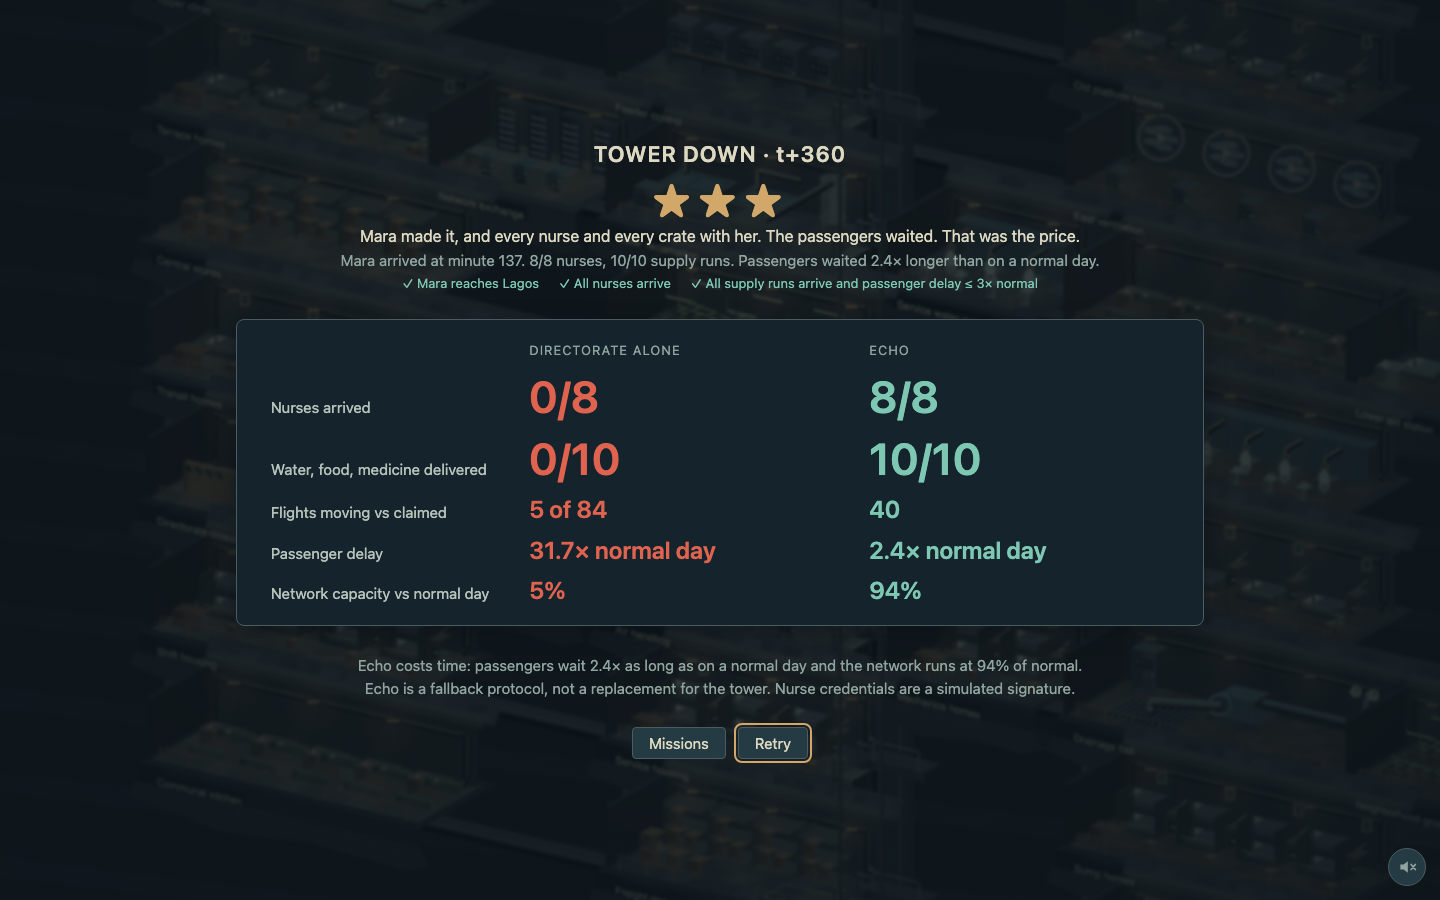
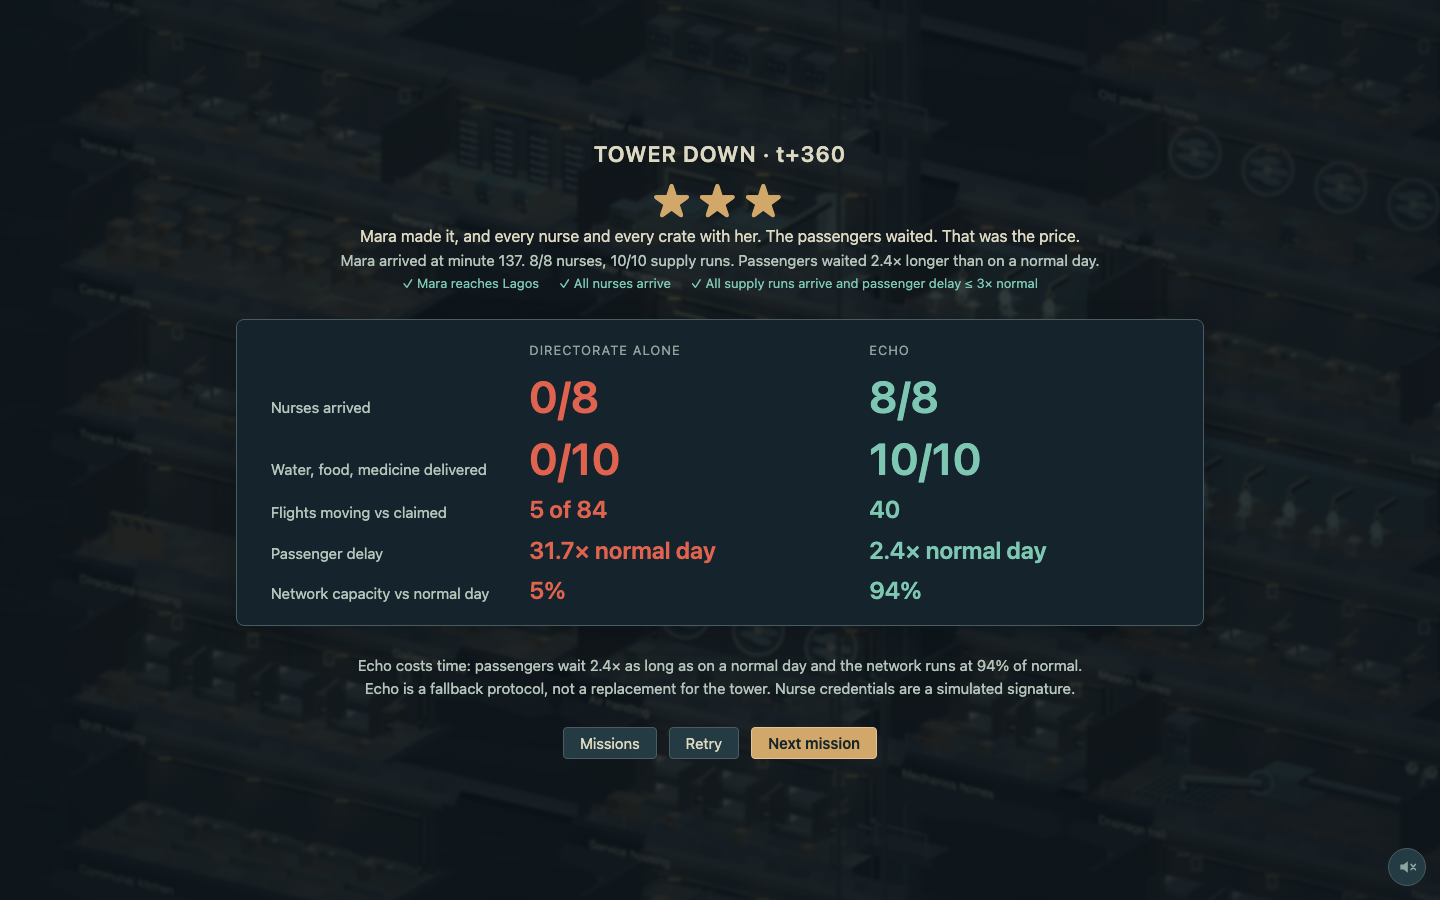
Backdrop text contrast to WCAG AA
Text that sits directly on the live Strata backdrop (kickers, title footer, debrief lines,
end-card note) uses text2 instead of muted/dim, and the canvas is a touch darker.
Worst case on a still frame and three drifting frames: every element passes AA (>=4.5, large >=3).

Changed region(s): [[0.25, 0.7156, 0.75, 0.8711], [0.25, 0.28, 0.75, 0.3111]]

diff --git a/hollow-world/src/echo-view/game/game.css b/hollow-world/src/echo-view/game/game.css
@@ -11,13 +11,13 @@ html, body, #root { margin: 0; height: 100%; background: var(--bg); color: var(-
 .g-btn:focus-visible, .g-card:focus-visible, .g-skip:focus-visible { outline: 2px solid var(--amber); outline-offset: 2px; }
 .g-row { display: flex; flex-wrap: wrap; gap: 12px; align-items: center; }
 .g-muted { color: var(--muted); }
-.g-kicker { font-family: var(--mono); color: var(--muted); font-size: 12px; letter-spacing: .16em; text-transform: uppercase; }
+.g-kicker { font-family: var(--mono); color: var(--text2); font-size: 12px; letter-spacing: .16em; text-transform: uppercase; }
 .g-stars { color: var(--amber); letter-spacing: .12em; }
 .g-stars .off { color: var(--line2); }
 
 /* the Strata scene behind the story screens: dimmed and softened so panels and text stay readable */
 .g-backdrop { position: fixed; inset: 0; z-index: 0; overflow: hidden; background: var(--stage); pointer-events: none; }
-.g-backdrop canvas { width: 100%; height: 100%; display: block; filter: blur(1.5px) brightness(.62) saturate(.9); transform: scale(1.03); }
+.g-backdrop canvas { width: 100%; height: 100%; display: block; filter: blur(1.5px) brightness(.58) saturate(.9); transform: scale(1.03); }
 .g-backdrop::after { content: ""; position: absolute; inset: 0; background: radial-gradient(ellipse at 50% 45%, rgba(13,22,28,.1) 0, rgba(13,22,28,.6) 100%); }
 
 /* debrief: let the scene show through the end card (echo.html keeps the near-opaque one) */
@@ -30,7 +30,7 @@ html, body, #root { margin: 0; height: 100%; background: var(--bg); color: var(-
 .g-title h1 { margin: 0; font-size: clamp(64px, 14vw, 148px); line-height: 1; letter-spacing: .32em; margin-right: -.32em; font-weight: 700; color: var(--head); text-shadow: 0 0 32px rgba(210,167,106,.3); font-family: var(--sans); }
 .g-title .sub { font-size: clamp(14px, 2.2vw, 20px); color: var(--text2); letter-spacing: .14em; }
 .g-title .g-row { justify-content: center; margin-top: 18px; }
-.g-title .foot { position: absolute !important; bottom: 18px; left: 16px; right: 16px; font-size: 12px; color: var(--dim); }
+.g-title .foot { position: absolute !important; bottom: 18px; left: 16px; right: 16px; font-size: 12px; color: var(--text2); }
 
 /* shared page layout */
 .g-page { max-width: 1040px; margin: 0 auto; padding: 40px 24px 32px; }
@@ -87,7 +87,7 @@ html, body, #root { margin: 0; height: 100%; background: var(--bg); color: var(-
 .g-debrief-top { display: flex; flex-direction: column; align-items: center; gap: 6px; margin-top: -14px; }
 .g-debrief-top .g-stars { font-size: 40px; line-height: 1; }
 .g-debrief-top .verdict { font-size: 16px; color: var(--text); text-align: center; }
-.g-debrief-objs { display: flex; flex-wrap: wrap; justify-content: center; gap: 4px 20px; font-size: 13px; color: var(--muted); }
+.g-debrief-objs { display: flex; flex-wrap: wrap; justify-content: center; gap: 4px 20px; font-size: 13px; color: var(--text2); }
 .g-debrief-objs .met { color: var(--good); }
 
 @keyframes g-blink { 50% { opacity: .35; } }
@@ -159,3 +159,6 @@ html, body, #root { margin: 0; height: 100%; background: var(--bg); color: var(-
   .g-screen .echo-end-grid .v.sm { font-size: 20px; white-space: normal; }
   .g-screen .echo-end button { min-height: 44px; }
 }
+
+/* text that sits directly on the Strata backdrop uses text2, not muted: AA (4.5:1) even under the brightest lamps */
+.g-debrief-top .g-muted, .g-screen .echo-end-note { color: var(--text2); }
